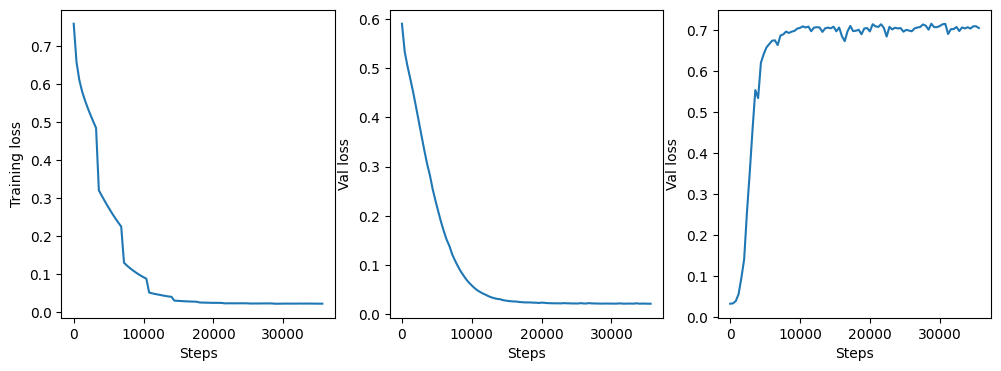
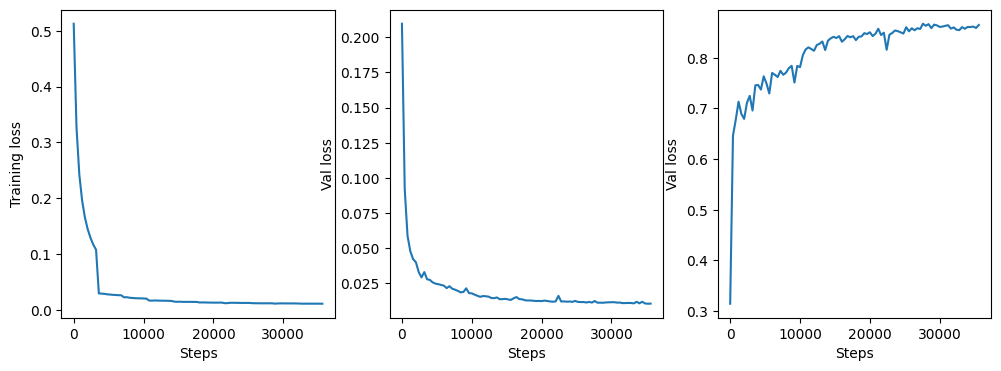
add residual connection

diff --git a/model_train.py b/model_train.py
@@ -89,17 +89,18 @@ print(device)
 
 epochs = 10
 batch_size = 5
-learning_rate = 1e-5
+learning_rate = 5e-5
 val_percent = 0.1
 
-weight_decay = 5e-3
+weight_decay = 1e-3
 momentum = 0.2
 gradient_clipping = 1.0
 
-target_size = [524,412] #[572,572]
+target_size = [572,572] #[524,412]
 original_size = [512,408]
+resize = 'resize'
 
-train_dataset = ParabolaIonoDatasetOX('training_data', target_size= target_size, resize='resize')
+train_dataset = ParabolaIonoDatasetOX('training_data', target_size= target_size, resize=resize)
 
 n_val = int(len(train_dataset) * val_percent)
 n_train = len(train_dataset) - n_val
@@ -111,18 +112,22 @@ loader_args = dict(batch_size=batch_size,  pin_memory=True) #os.cpu_count()num_w
 train_loader = DataLoader(train_set, shuffle=True, drop_last=True, **loader_args)
 val_loader = DataLoader(val_set, shuffle=True, drop_last=True, **loader_args)
 
-test_dataset = HandPickTraceDataset('VIPIR_PROC/proc', 'VIPIR_PROC/dog_pick', target_size= target_size, resize='resize')
+test_dataset = HandPickTraceDataset('VIPIR_PROC/proc', 'VIPIR_PROC/dog_pick', target_size= target_size, resize=resize)
 test_loader = DataLoader(test_dataset, shuffle=True, drop_last=True, **loader_args)
 
 testfiles = glob.glob1('VIPIR_PROC/proc/','*.npy')
 
-# resize_tr = transforms.Resize(target_size, antialias = False)
-resize_tr = Pad([(target_size[1] - original_size[1])//2, (target_size[0] - original_size[0])//2])
+if resize == 'resize':
+    resize_tr = transforms.Resize(target_size, antialias = False)
+elif resize == 'pad':
+    resize_tr = Pad([(target_size[1] - original_size[1])//2, (target_size[0] - original_size[0])//2])
+else: resize = None
 
 XX, YY = torch.meshgrid(torch.linspace(0,1,target_size[0],dtype=torch.float32),torch.linspace(0,1,target_size[1],dtype=torch.float32))
 
-model = UNet(n_channels=3, n_classes=4, bilinear=False, dropout_p=0.4)
+model = UNet(n_channels=3, n_classes=4, bilinear=False, in_dropout_p = 0.4)
 model = model.to(device=device)
+# model.load_state_dict(torch.load('saved_model/'+'TOPHAT_checkpoint_epoch_10_18000.pth')['model_state_dict'])
 model.train()
 
 optimizer = AdamW(model.parameters(), lr=learning_rate, weight_decay=weight_decay)

diff --git a/unet/unet_model.py b/unet/unet_model.py
@@ -4,7 +4,7 @@ from .unet_parts import *
 
 
 class UNet(nn.Module):
-    def __init__(self, n_channels, n_classes, bilinear=False, up_kernel_size=3, dropout_p=0.3):
+    def __init__(self, n_channels, n_classes, bilinear=False, up_kernel_size=3, in_dropout_p=0.3, dropout_p=0.3):
         super(UNet, self).__init__()
         self.n_channels = n_channels
         self.n_classes = n_classes
@@ -20,16 +20,14 @@ class UNet(nn.Module):
         self.up2 = (Up(512, 256 // factor, bilinear, up_kernel_size))
         self.up3 = (Up(256, 128 // factor, bilinear, up_kernel_size))
         self.up4 = (Up(128, 64, bilinear, up_kernel_size))
-        self.outc = (OutConv(64, n_classes))
+        self.outc = (OutConv(64+n_channels, n_classes))
 
-        # self.drop_layer = nn.Dropout(p=dropout_p)
-        # self.drop_layer_input = nn.Dropout(p=dropout_p)
-        self.dropout_p=dropout_p
+        self.drop_layer = nn.Dropout(p=dropout_p)
+        self.dropout_p = in_dropout_p
 
     def forward(self, x):
-        # x = self.drop_layer_input(x)
-        x = nn.functional.dropout(x,p=self.dropout_p,training=True)
-        x1 = self.inc(x)
+        xd = nn.functional.dropout(x,p=self.dropout_p,training=True)
+        x1 = self.inc(xd)
         # x1 = self.drop_layer(x1)
         x2 = self.down1(x1)
         # x2 = self.drop_layer(x2)
@@ -47,7 +45,7 @@ class UNet(nn.Module):
         # x = self.drop_layer(x)
         x = self.up4(x, x1)
         # x = self.drop_layer(x)
-        logits = self.outc(x)
+        logits = self.outc(torch.cat([xd, x], dim=1))
         return logits
 
     def use_checkpointing(self):

diff --git a/unet/unet_parts.py b/unet/unet_parts.py
@@ -12,20 +12,26 @@ class DoubleConv(nn.Module):
         super().__init__()
         if not mid_channels:
             mid_channels = out_channels
-        self.double_conv = nn.Sequential(
+        self.conv1 = nn.Sequential(
             nn.Conv2d(in_channels, mid_channels, kernel_size=3, padding=1, bias=False),
             # nn.BatchNorm2d(mid_channels),
             nn.ReLU(inplace=True),
-            nn.GroupNorm(mid_channels, mid_channels),
-
+            nn.GroupNorm(mid_channels, mid_channels)
+        )
+        self.conv2 = nn.Sequential(
             nn.Conv2d(mid_channels, out_channels, kernel_size=3, padding=1, bias=False),
             # nn.BatchNorm2d(out_channels),
             nn.ReLU(inplace=True),
-            nn.GroupNorm(mid_channels, out_channels),
+            nn.GroupNorm(out_channels, out_channels),
         )
+        self.in_channels = in_channels
+        self.out_channels = out_channels
 
     def forward(self, x):
-        return self.double_conv(x)
+        channel_factor = self.out_channels // self.in_channels + 1
+        x = self.conv1(x) + torch.cat([x]*channel_factor,dim=1)[:,:self.out_channels,:,:]
+        x = self.conv2(x) + x
+        return x
 
 
 class Down(nn.Module):
